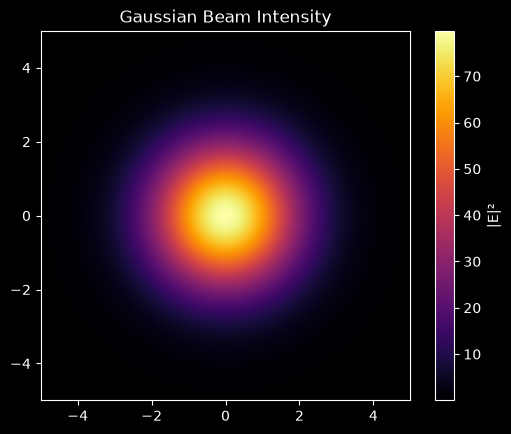
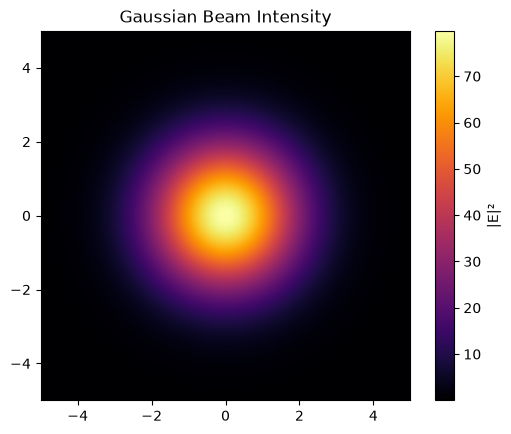
added github links properly, slight grammar updates.

diff --git a/README_PyPi.md b/README_PyPi.md
@@ -1,4 +1,4 @@
-VectorWaves provides a framework for generating, computing, and analyzing fully three-dimensional electromagnetic fields through discrete plane-wave expansions.
+VectorWaves provides a framework for generating, computing, and analyzing fully three-dimensional electromagnetic fields and their topology through discrete plane-wave expansions.
 
 ## Installation
 
@@ -17,7 +17,7 @@ For additional features, you can install the optional dependencies:
 
 To install, 
 ```bash
-pip install vectorwaves[#Extra]
+pip install vectorwaves[extra]
 ```
 
 ## Features
@@ -25,16 +25,16 @@ pip install vectorwaves[#Extra]
 - Physics-oriented configuration system with `numpy`, `numba`, and CuPy (GPU) backends.
 - Exact non-paraxial 3D propagation via Fibonacci-sphere discrete plane-wave expansions.
 - Monochromatic and polychromatic sources with arbitrary envelopes, structured light support.
+- Stochastic process generation for speckle-like fields.
 - Fully analytic computation of E-fields, B-fields, spatial derivatives.
-- Topological polarization analysis: C, Cᵀ, and Lᵀ point sub-pixel refinement and 3D line tracing.
-- Stochastic processes generation for speckle like fields.
-
+- Topological polarization analysis: C, Cᵀ, and Lᵀ point finding with 3D line tracing.
+  
 ## Quick Example
 
 ```python
 import vectorwaves as vw
 
-# Configure the physical system
+# Generate a tightly-focused Laguerre-Gaussian beam
 config = vw.get_config()
 config.source.k_space.laguerre_gauss(p=1, l=2, sigma_k_perp=1)
 config.source.randomize.off()

diff --git a/README.md b/README.md
@@ -21,6 +21,11 @@ For additional features, you can install optional dependencies:
 | `gpu` | CUDA acceleration via CuPy |
 | `all` | All the above |
 
+To install, 
+```bash
+pip install vectorwaves[#Extra]
+```
+
 ## Features
 
 - **Exact 3D Fields**: Electric, Magnetic fields and spatial derivatives via Fibonacci-sphere discrete plane-wave expansions.

diff --git a/docs/index.md b/docs/index.md
@@ -64,10 +64,10 @@ plt.colorbar(label="|E|²")
 plt.title("Gaussian Beam Intensity")
 plt.show()
 ```
+Output
 
 ![Gaussian beam intensity](images/gaussian_beam.png)
 
-*Intensity cross-section of a Gaussian beam generated by VectorWaves.*
 
 ## Next Steps
 